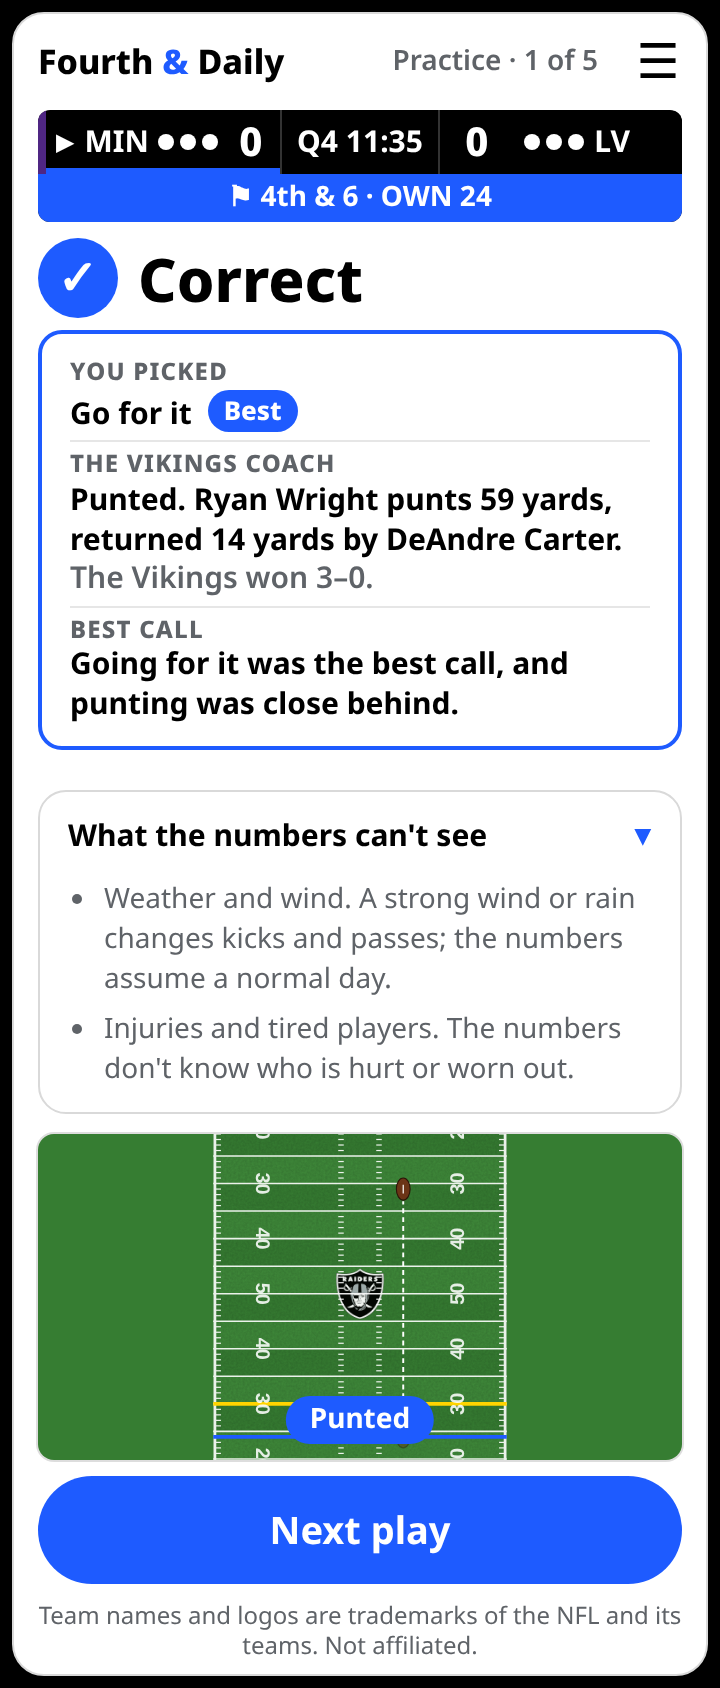
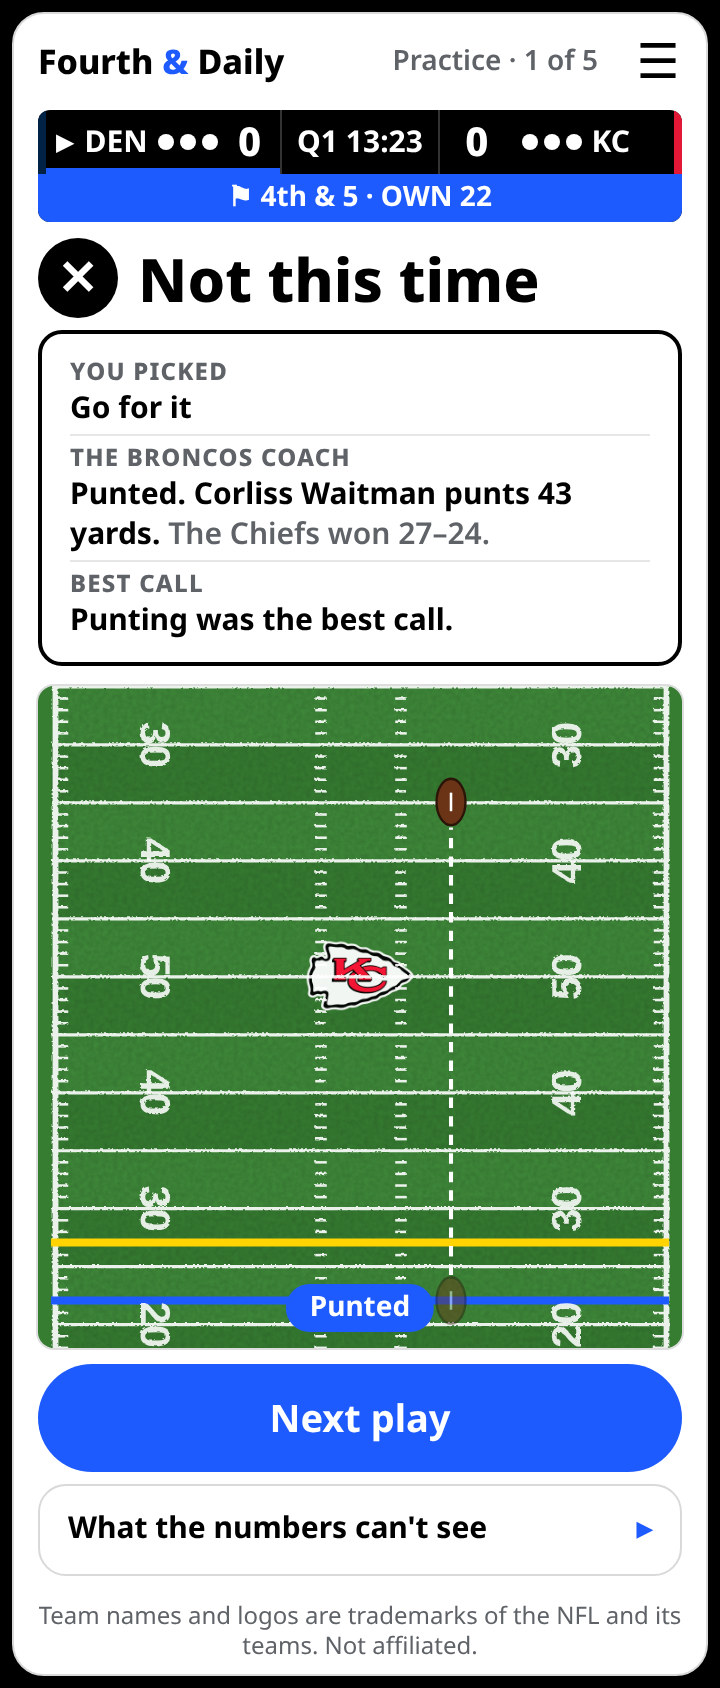
F6 review: limits row below Next play (collapsed, one line); About on white game route; About copy checked against game logic and daily pool; kicker limit says league-average

diff --git a/frontend/app/about/page.tsx b/frontend/app/about/page.tsx
@@ -1,51 +1,57 @@
 import Link from "next/link";
-import pack from "../../lib/quizPack.json";
+import { DAILY_ITEMS, DAILY_SET_SIZE, MAX_FG_YARDS } from "../../lib/daily";
+import retired from "../../lib/retiredDailyIds.json";
 import { MODEL_KNOWS, MODEL_DOESNT_KNOW } from "../../lib/modelLimits";
+import { Header, Trademark } from "../../components/SimpleGame";
 
 export const metadata = { title: "How it works · Fourth & Daily" };
 
-const seasons = [...new Set((pack.items as { source: { season: number } }[]).map((i) => i.source.season))].sort();
+// The daily pool = lib/dailyPack.json minus lib/retiredDailyIds.json (what scripts/extend-daily-schedule.ts draws from).
+const retiredIds = new Set(retired as string[]);
+const pool = DAILY_ITEMS.filter((i) => !retiredIds.has(i.id));
+const seasons = [...new Set(pool.map((i) => i.source.season))].sort();
 
 export default function AboutPage() {
   return (
-    <main className="fd-page fd-prose" id="main">
-      <h1>How it works</h1>
-      <h2>The game</h2>
-      <p>
-        Every day at midnight Eastern you get five real 4th downs from NFL games. Pick Go, Kick or Punt. Then you see what the
-        coach did and what our model says gives the team the best chance to win.
-      </p>
-      <ul>
-        <li><strong>Right call:</strong> you picked the option with the best win chance. Worth 1.</li>
-        <li><strong>Close call:</strong> when the top two options are within 2 points of win chance, the best one still earns the full point and the other one earns ½.</li>
-        <li><strong>Kick</strong> isn&apos;t offered at 65+ yards: the game shows &ldquo;Too far to kick (65+ yards)&rdquo;. <strong>Punt</strong> isn&apos;t offered inside the opponent&apos;s 35.</li>
-        <li>Your streak and stats stay in this browser. No sign-in, nothing sent anywhere.</li>
-      </ul>
-      <h2>The numbers</h2>
-      <p>
-        Today&apos;s plays come from {pack.items.length} real regular-season 4th downs from the {seasons.join(" and ")} seasons.
-        For each one, the model estimates the team&apos;s chance to win after going for it, kicking or punting, using what usually
-        happens next in similar spots (learned from 2019–2021 games). A field goal try is the line of scrimmage plus 18 yards: the ball is snapped about 8 yards back, and the goalposts sit at the back of the 10-yard end zone.
-      </p>
-      <p>
-        These are estimates, not certainties. The win-chance model is not yet calibrated, so treat a gap of a few points as close.
-      </p>
-      <h2>What the model knows and doesn&apos;t</h2>
-      <div className="ml-cols">
-        <div><h3>Knows</h3><ul>{MODEL_KNOWS.map((k) => <li key={k}>{k}</li>)}</ul></div>
-        <div><h3>Doesn&apos;t know</h3><ul>{MODEL_DOESNT_KNOW.map((k) => <li key={k}>{k}</li>)}</ul></div>
+    <main id="main">
+      <div className="sg-app ab">
+        <Header right="About" />
+        <h1 className="kb-h1">How it works</h1>
+        <h2>The game</h2>
+        <p>
+          Every day at midnight Eastern you get five real 4th downs from NFL games. Pick Go, Kick or Punt. Then you see what the
+          coach did and what our model says gives the team the best chance to win.
+        </p>
+        <ul>
+          <li><strong>Right call:</strong> you picked the option with the best win chance. Worth 1.</li>
+          <li><strong>Close call:</strong> when the top two options are within 2 percentage points of win chance, the best one still earns the full point and the other one earns ½.</li>
+          <li><strong>Kick</strong> is offered up to {MAX_FG_YARDS} yards. Past that the game shows &ldquo;Too far to kick (65+ yards)&rdquo;. <strong>Punt</strong> isn&apos;t offered inside the opponent&apos;s 35.</li>
+          <li>Your streak and stats stay in this browser. No sign-in, nothing sent anywhere.</li>
+        </ul>
+        <h2>The numbers</h2>
+        <p>
+          Daily plays come from {pool.length} real regular-season 4th downs from the {seasons.join(" and ")} seasons.
+          For each one, the model estimates the team&apos;s chance to win after going for it, kicking or punting, using what usually
+          happens next in similar spots (learned from 2019–2021 games). A field goal try is the line of scrimmage plus 18 yards: the ball is snapped about 8 yards back, and the goalposts sit at the back of the 10-yard end zone.
+        </p>
+        <p>
+          These are estimates, not certainties. The win-chance model is not yet calibrated, so treat a gap of a few points as close.
+        </p>
+        <h2>What the model knows and doesn&apos;t</h2>
+        <div className="ml-cols">
+          <div><h3>Knows</h3><ul>{MODEL_KNOWS.map((k) => <li key={k}>{k}</li>)}</ul></div>
+          <div><h3>Doesn&apos;t know</h3><ul>{MODEL_DOESNT_KNOW.map((k) => <li key={k}>{k}</li>)}</ul></div>
+        </div>
+        <p>
+          With {pool.length} plays and {DAILY_SET_SIZE} a day, the set repeats every {Math.floor(pool.length / DAILY_SET_SIZE)} days.
+        </p>
+        <h2>Data</h2>
+        <p>
+          Play-by-play data: <a href="https://github.com/nflverse/nflverse-data">nflverse</a> (CC BY 4.0). Not affiliated with the NFL.
+        </p>
+        <p><Link href="/">Back to Today&apos;s 5 →</Link></p>
+        <Trademark />
       </div>
-      <p>
-        With {pack.items.length} plays and 5 a day, the set repeats every {Math.floor(pack.items.length / 5)} days.
-      </p>
-      <h2>Data</h2>
-      <p>
-        Play-by-play data:{" "}
-        <a href="https://github.com/nflverse/nflverse-data">nflverse</a> (CC BY 4.0). Not affiliated with the NFL.
-      </p>
-      <p>
-        <Link href="/">Back to Today&apos;s 5 →</Link>
-      </p>
     </main>
   );
 }

diff --git a/frontend/app/globals.css b/frontend/app/globals.css
@@ -1763,6 +1763,14 @@ body { font-variant-numeric: tabular-nums; }
 .ml[open] .ml-sum::after{transform:rotate(90deg)}
 .ml-list{margin:0;padding:0 14px 12px 32px;display:grid;gap:6px;font-size:14px;color:var(--sg-g);line-height:1.4}
 .ml-cols{display:grid;grid-template-columns:1fr 1fr;gap:10px}
-.ml-cols>div{border:1px solid #2a2a2e;border-radius:12px;background:#121214;padding:12px}
-.ml-cols h3{margin:0 0 6px;font-size:15px}
-.ml-cols ul{margin:0;padding-left:18px;font-size:14px}
+.ml-cols>div{border:1.5px solid #d9d9d9;border-radius:14px;background:#fff;padding:12px}
+.ml-cols h3{margin:0 0 6px;font-size:15px;color:#000}
+.ml-cols ul{margin:0;padding-left:18px;font-size:14px;color:var(--sg-g)}
+.ml{margin:6px 0 4px}
+.ml-sum{min-height:44px}
+/* About on the white game card */
+.ab{gap:10px;padding-bottom:calc(16px + env(safe-area-inset-bottom,0px));line-height:1.5}
+.ab h2{font-size:19px;font-weight:800;margin:8px 0 0;color:#000}
+.ab p,.ab>ul{margin:0;font-size:15px;color:#202124}
+.ab>ul{padding-left:20px;display:grid;gap:6px}
+.ab a{color:var(--sg-b)}

diff --git a/frontend/components/SimpleGame.tsx b/frontend/components/SimpleGame.tsx
@@ -219,11 +219,11 @@ export function RevealScreen({ item: it, pick: p, outcome: out, header, nextLabe
         <div className="sg-ln"><div className="sg-lbl">The {nick(it.situation.posteam)} coach</div><div className="sg-v">{coachCallText(it)} {out?.text ?? ""} {out?.penalty ? `${out.penalty} ` : ""}{out?.finalText ? <span className="sg-final">{out.finalText}</span> : null}</div></div>
         <div className="sg-ln"><div className="sg-lbl">Best call</div><div className="sg-v">{bestCallText(tags)}</div></div>
       </div>
-      <ModelLimits item={it} />
       <FieldView item={it} outcome={out ?? { endYardline100: it.situation.yardline_100, label: coachCallText(it).replace(/\.$/, ""), text: null, finalText: null }} />
       <div className="sg-btns">
         <button type="button" className="sg-next" onClick={onNext}>{nextLabel}</button>
       </div>
+      <ModelLimits item={it} />
       <Trademark />
     </div>
   );

diff --git a/frontend/components/AppNav.tsx b/frontend/components/AppNav.tsx
@@ -14,10 +14,10 @@ const ALL_TABS = [
 // H6 (#80): the checker tab stays hidden while CHECKER_ENABLED is false.
 const TABS = ALL_TABS.filter((t) => CHECKER_ENABLED || t.href !== "/fourth-down/");
 
-/** The simple game ("/", "/daily", "/practice", "/endless", "/feed", "/kicks") has its own header and ☰ menu, so the old chrome is hidden there. */
+/** The simple game ("/", "/daily", "/practice", "/endless", "/feed", "/kicks", "/about") has its own header and ☰ menu, so the old chrome is hidden there. */
 function useGameRoute(): boolean {
   const p = (usePathname() || "/").replace(/\/+$/, "") || "/";
-  return p === "/" || p === "/daily" || p === "/practice" || p === "/endless" || p === "/feed" || p === "/kicks";
+  return p === "/" || p === "/daily" || p === "/practice" || p === "/endless" || p === "/feed" || p === "/kicks" || p === "/about";
 }
 
 export function TopBar() {

diff --git a/frontend/lib/modelLimits.ts b/frontend/lib/modelLimits.ts
@@ -12,7 +12,7 @@ export function limitsFor(item: DailyItem, facts: LimitFacts = {}): ModelLimit[]
   const out: ModelLimit[] = [];
   const indoors = facts.roof === "dome" || facts.roof === "closed";
   if (!indoors) out.push({ id: "weather", text: "Weather and wind. A strong wind or rain changes kicks and passes; the numbers assume a normal day." });
-  if (optionStates(item).some((o) => o.id === "fg" && !o.disabled)) out.push({ id: "kicker", text: "Who the kicker is. The numbers use an average NFL kicker, not this team's." });
+  if (optionStates(item).some((o) => o.id === "fg" && !o.disabled)) out.push({ id: "kicker", text: "Who the kicker is. These numbers use a league-average kicker, not this team's." });
   out.push({ id: "people", text: "Injuries and tired players. The numbers don't know who is hurt or worn out." });
   return out;
 }

diff --git a/frontend/lib/routeChrome.test.ts b/frontend/lib/routeChrome.test.ts
@@ -12,7 +12,7 @@ const FRONTEND = resolve(dirname(fileURLToPath(import.meta.url)), "..");
 const APP = join(FRONTEND, "app");
 
 // Pre-existing routes still on the old shell. Shrink this list; never grow it.
-const LEGACY_ROUTES = new Set(["/about", "/daily/stats", "/fourth-down", "/games", "/games/[gameId]"]);
+const LEGACY_ROUTES = new Set(["/daily/stats", "/fourth-down", "/games", "/games/[gameId]"]);
 
 // Old dark theme / old chrome markers (globals.css :root dark tokens, .fd-page, TopBar, bottom nav).
 const DARK_MARKERS: [RegExp, string][] = [
